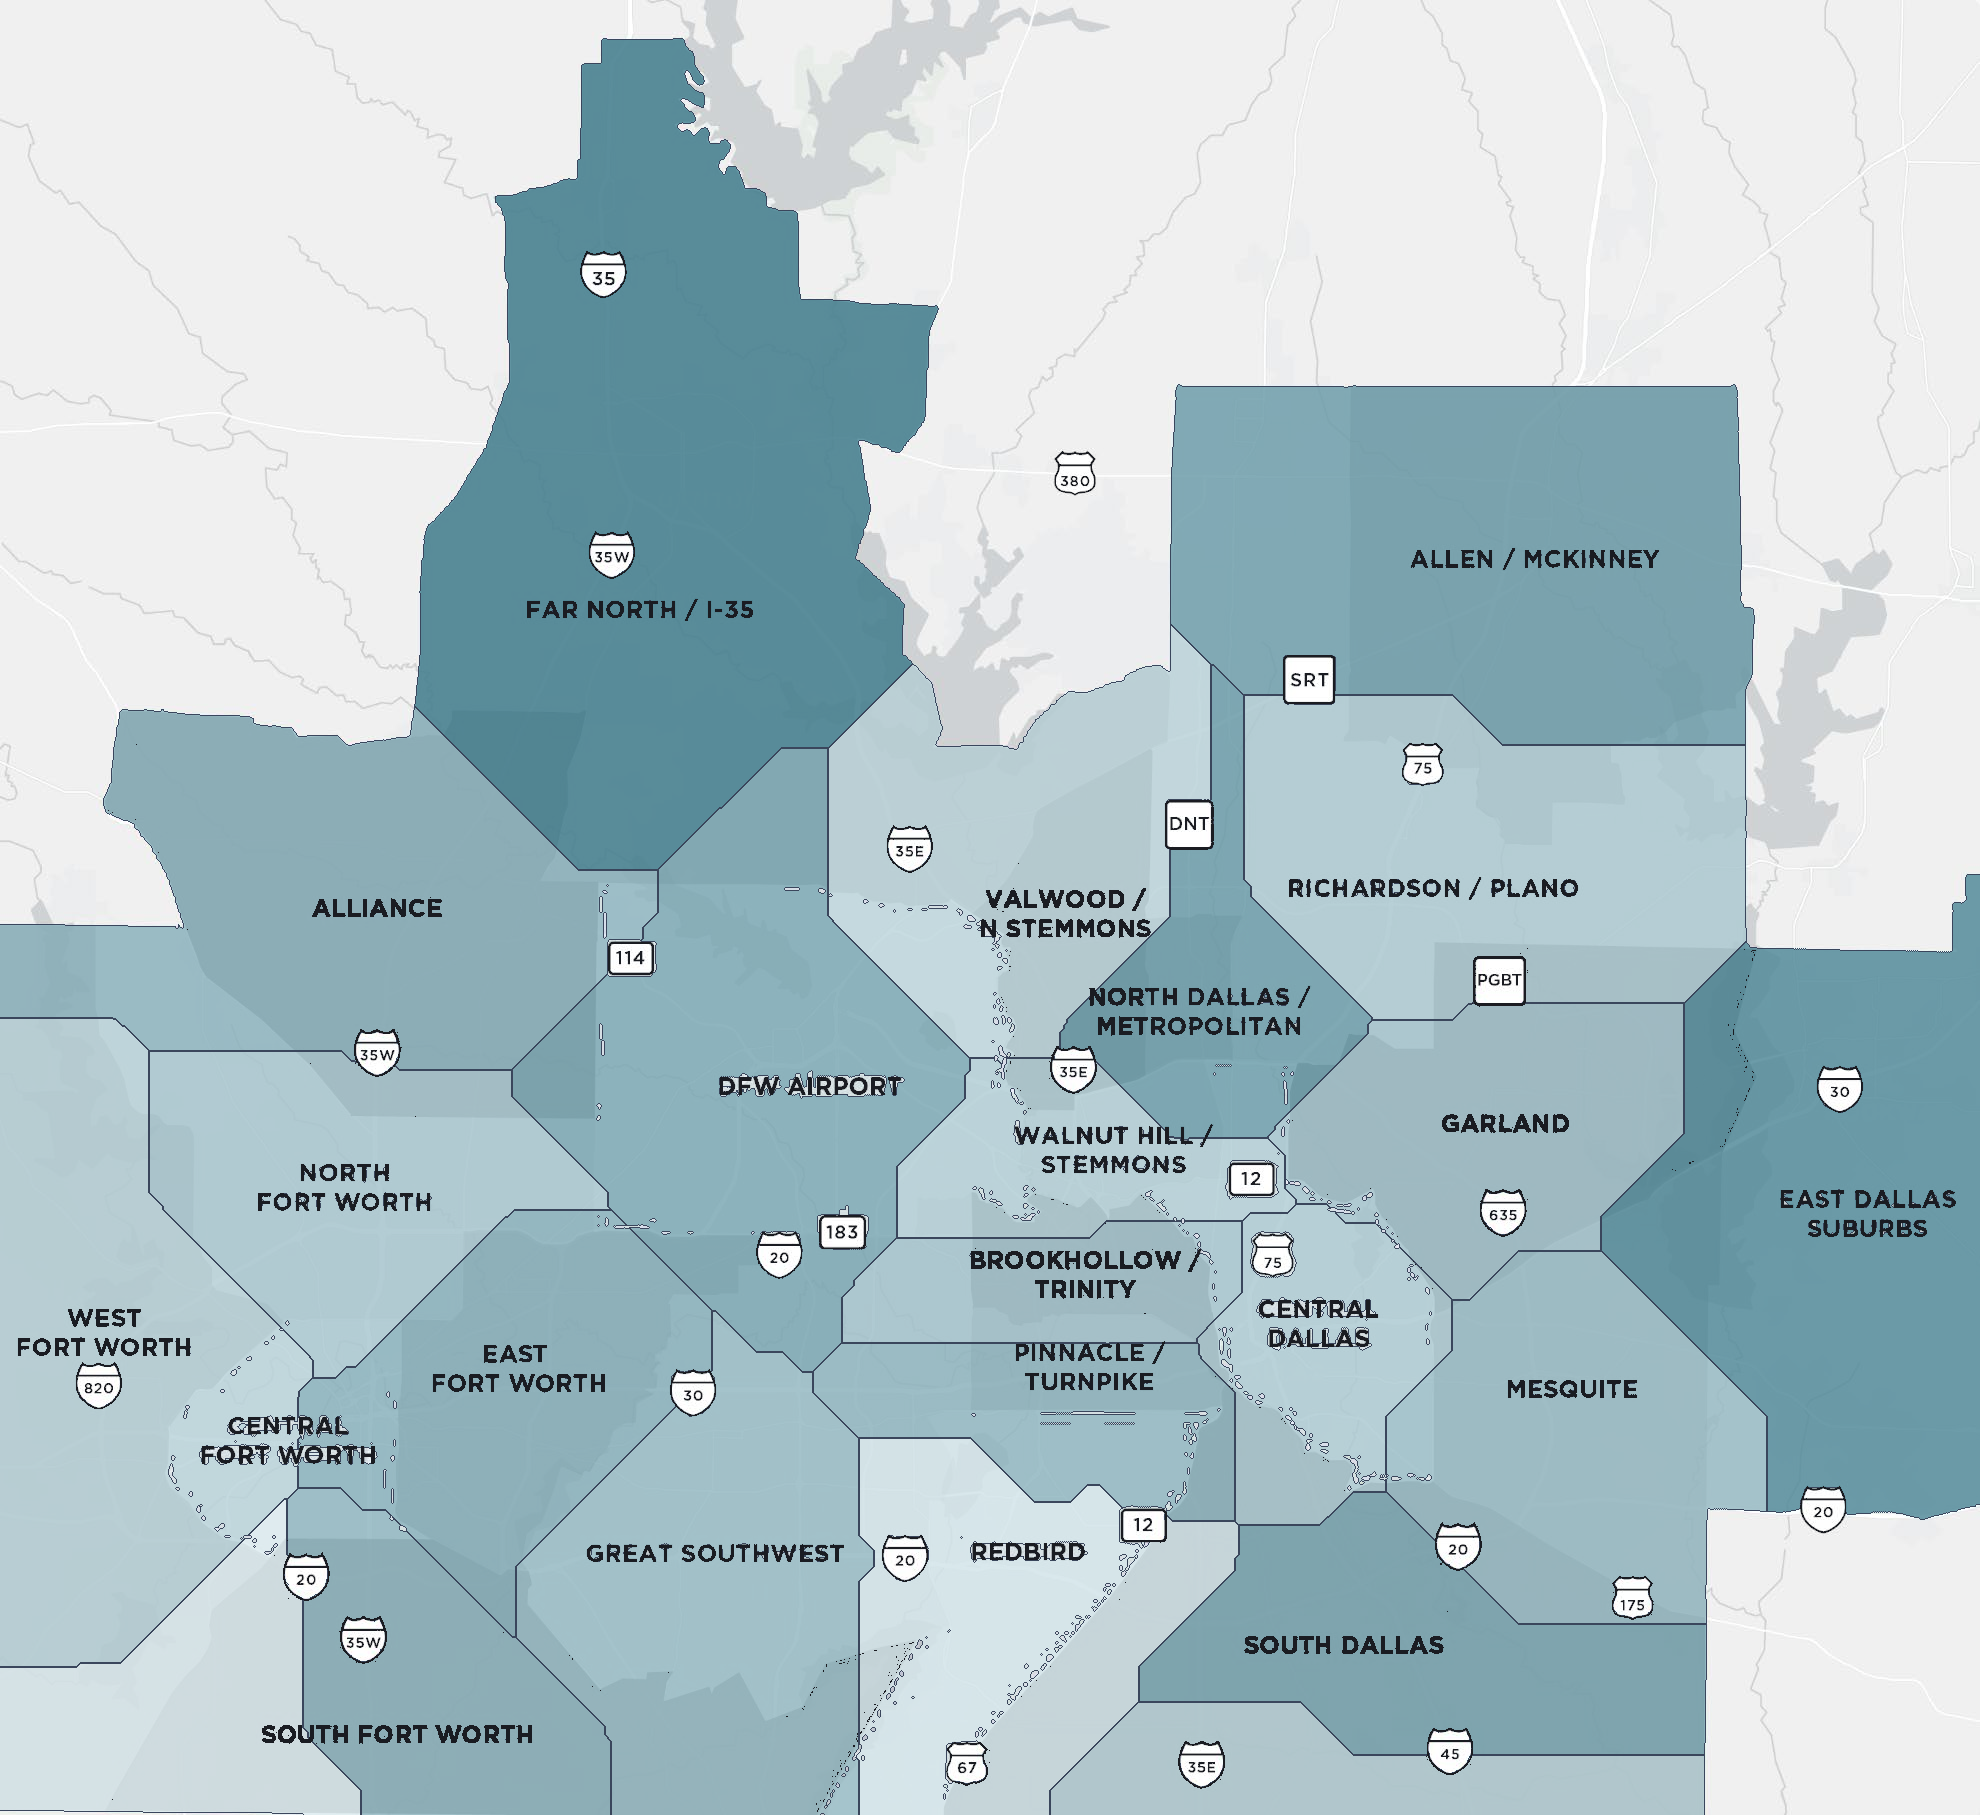
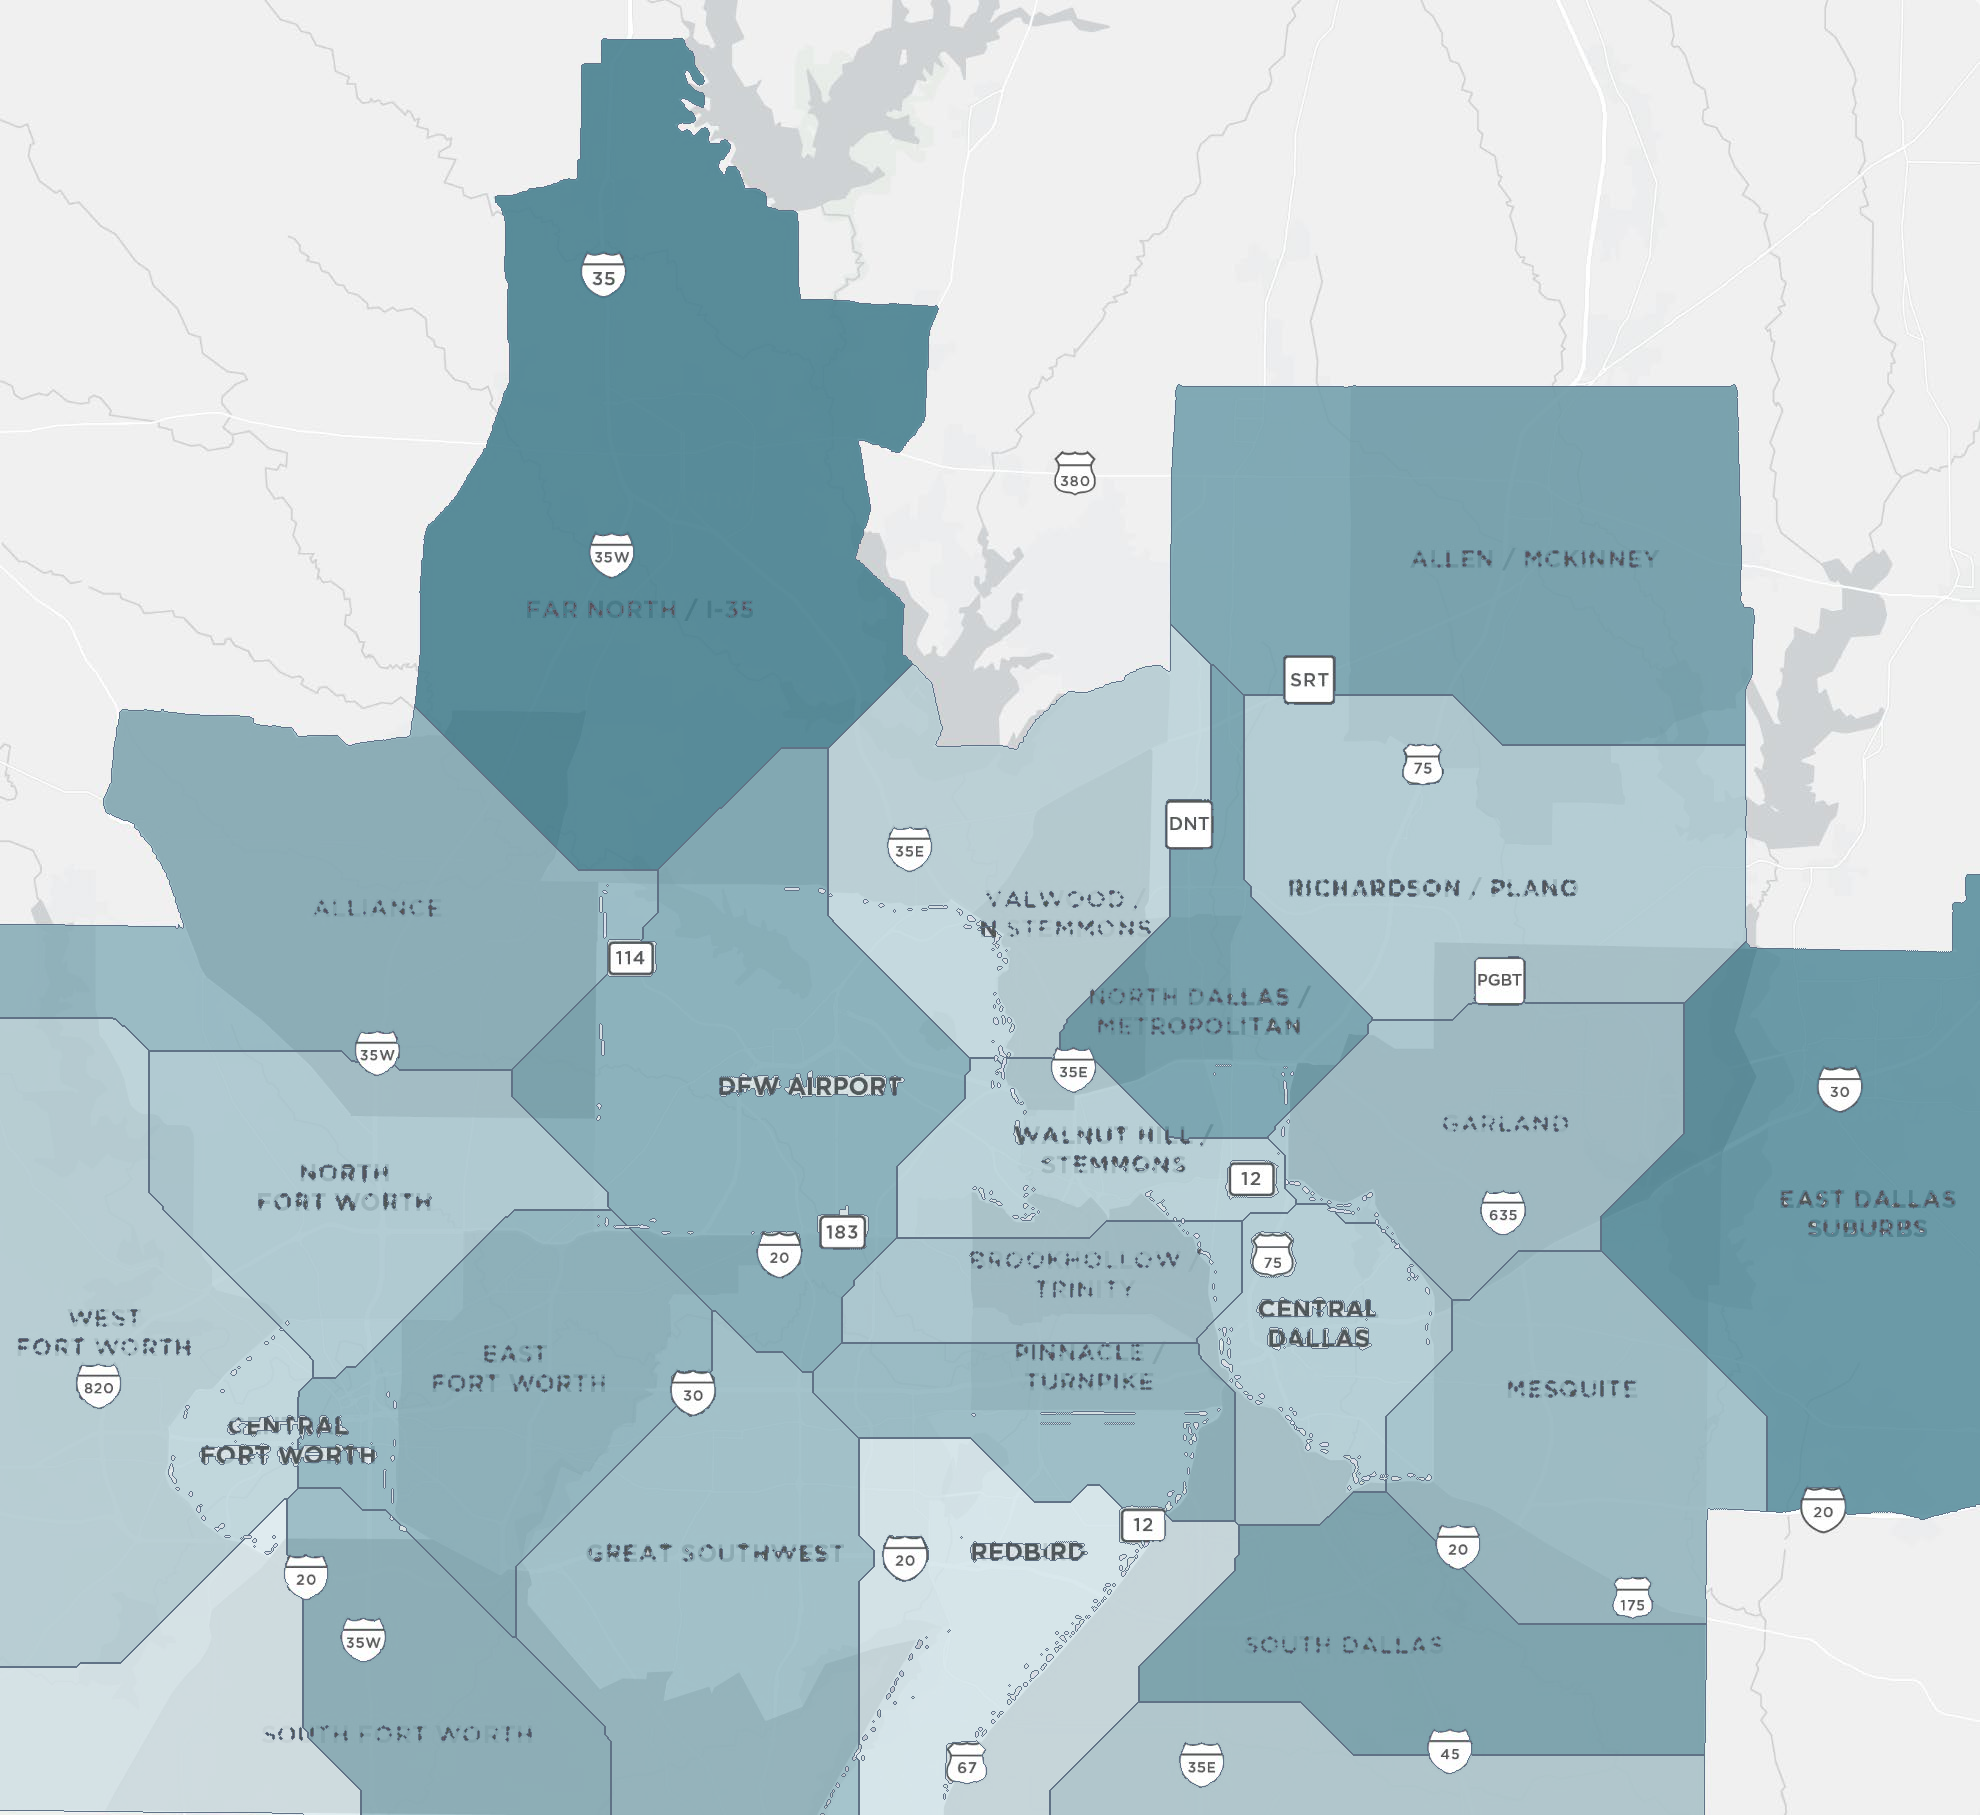
Submarket map: click-to-dive-deeper + clean labels
- Click any region on the map to open its full (transposed) stats in the side panel —
  no more crossing other regions to reach a button. Cursor hint follows the mouse.
- Labels: keep the original dark-text + white-halo rendering (removed the force-black
  overlay that read as 'black over white lettering'); softer region outlines.

diff --git a/frontend/report.html b/frontend/report.html
@@ -362,8 +362,13 @@
   .sm-split { display: flex; gap: 16px; align-items: stretch; }
   .sm-map { position: relative; flex: 0 0 79%; max-width: 79%; align-self: flex-start;
     border: 1px solid var(--line); border-radius: 12px; overflow: hidden; background: #fff;
-    box-shadow: 0 2px 10px rgba(20,30,50,.05); cursor: crosshair; }
+    box-shadow: 0 2px 10px rgba(20,30,50,.05); cursor: pointer; }
   .sm-img { display: block; width: 100%; height: auto; }
+  /* small hint that follows the cursor so you can dive deeper right where you are */
+  .sm-cursor { position: absolute; display: none; z-index: 6; pointer-events: none;
+    background: var(--navy); color: #fff; font-size: 11px; font-weight: 600; letter-spacing: .2px;
+    padding: 5px 9px; border-radius: 7px; white-space: nowrap; box-shadow: 0 4px 14px rgba(0,0,0,.35); }
+  .sm-cursor b { color: var(--teal); }
   /* the 20% side panel */
   .sm-side { flex: 1 1 0; min-width: 0; border: 1px solid var(--line); border-top: 3px solid var(--teal);
     border-radius: 12px; background: #fff; padding: 14px 15px; display: flex; flex-direction: column; }
@@ -378,9 +383,9 @@
   .ss-keys { font-size: 12px; color: #44515a; }
   .ss-keys div { display: flex; justify-content: space-between; gap: 10px; padding: 4px 0; border-bottom: 1px solid #f3f5f7; }
   .ss-keys b { color: #28323e; font-weight: 700; font-variant-numeric: tabular-nums; }
-  .ss-deeper { margin-top: 14px; border: 0; background: var(--teal); color: #fff; font-weight: 700;
-    font-size: 12px; padding: 10px 12px; border-radius: 8px; cursor: pointer; width: 100%; }
-  .ss-deeper:hover { filter: brightness(1.07); }
+  .ss-clickhint { margin-top: 14px; font-size: 11.5px; color: var(--muted); line-height: 1.5;
+    background: var(--mist); border-radius: 8px; padding: 9px 11px; }
+  .ss-clickhint b { color: var(--teal-d); }
   .ss-back { border: 0; background: none; color: var(--teal-d); font-weight: 700; font-size: 11.5px;
     cursor: pointer; padding: 0 0 8px; text-align: left; }
   .ss-table { width: 100%; border-collapse: collapse; }
@@ -534,6 +539,7 @@
       <div class="sm-split">
         <div id="sm-map" class="sm-map">
           <img id="sm-img" class="sm-img" alt="Submarket vacancy map">
+          <div id="sm-cursor" class="sm-cursor"></div>
         </div>
         <aside id="sm-side" class="sm-side"></aside>
       </div>
@@ -1037,7 +1043,10 @@
     if(!_smGrid){ const k=_smKey; fetch(`/assets/submap_${k}_regions.json`).then(r=>r.json())
         .then(g=>{ _smGridCache[k]=g; if(_smKey===k) _smGrid=g; }).catch(()=>{}); }
     const map=document.getElementById("sm-map");
-    if(map && !_smHandlersOn){ _smHandlersOn=true; map.addEventListener("mousemove", smHover); }
+    if(map && !_smHandlersOn){ _smHandlersOn=true;
+      map.addEventListener("mousemove", smHover);
+      map.addEventListener("click", smClick);
+      map.addEventListener("mouseleave", ()=>{ const c=document.getElementById("sm-cursor"); if(c) c.style.display="none"; }); }
     smSideDefault();
     document.getElementById("sm-foot").textContent =
       "The Cushman & Wakefield MarketBeat submarket map, shaded by Q1 2026 vacancy. Hover a submarket, then dive deeper for its full Market-Statistics figures.";
@@ -1060,16 +1069,26 @@
     return best?_smByName[best]:null;
   }
   function smHover(e){
-    const s=_smRegionAt(e);
-    if(s && (!_smCur || _smCur.name!==s.name)){ _smCur=s; smSideHover(s); }
+    const s=_smRegionAt(e), cur=document.getElementById("sm-cursor"), map=document.getElementById("sm-map");
+    if(!s){ if(cur) cur.style.display="none"; return; }
+    if(!_smCur || _smCur.name!==s.name){ _smCur=s; smSideHover(s); }   // side panel follows the hover
+    if(cur && map){                                                     // hint chip follows the cursor
+      cur.innerHTML = `${s.name} · <b>click for full stats</b>`;
+      const mr=map.getBoundingClientRect();
+      let x=e.clientX-mr.left+16, y=e.clientY-mr.top+18;
+      if(x+cur.offsetWidth+10>mr.width) x=e.clientX-mr.left-cur.offsetWidth-14;
+      cur.style.left=Math.max(4,x)+"px"; cur.style.top=Math.max(4,y)+"px"; cur.style.display="block";
+    }
   }
+  // click anywhere on a submarket -> dive deeper right there (no need to travel to a button)
+  function smClick(e){ const s=_smRegionAt(e); if(s){ _smCur=s; smDeep(); } }
 
   function smSideDefault(){
     const el=document.getElementById("sm-side"); if(!el) return;
     el.innerHTML =
       `<div class="ss-cap">VACANCY</div><div class="ss-bar"></div>
        <div class="ss-ends"><span>${_smVmin.toFixed(1)}% low</span><span>high ${_smVmax.toFixed(1)}%</span></div>
-       <div class="ss-hint">Hover a submarket on the map to see its vacancy and key stats — then <b>dive deeper</b> for the full figures.</div>`;
+       <div class="ss-hint">Hover a submarket to see its key stats; <b>click it</b> for the full figures.</div>`;
   }
   function smSideHover(s){
     const el=document.getElementById("sm-side"); if(!el) return;
@@ -1081,7 +1100,7 @@
          <div><span>Under construction</span><b>${_smSF(s.under_construction_sf)}</b></div>
          <div><span>${_smRentLabels.primary}</span><b>${_smRent(s.rent_primary)}</b></div>
        </div>
-       <button class="ss-deeper" onclick="smDeep()">Dive deeper →</button>`;
+       <div class="ss-clickhint">↗ <b>Click the area</b> on the map for its full figures</div>`;
   }
   function _smRows(s){
     return [["Inventory", _smSF(s.inventory_sf)], ["Vacant", _smSF(s.vacant_sf)],

diff --git a/scripts/build_submarket_map.py b/scripts/build_submarket_map.py
@@ -194,19 +194,16 @@ def build(sector: str) -> None:
     lg = light_grey[ys, xs][:, None]
     out_arr[ys, xs] = lg * (1 - BLEND) + cols[lab[ys, xs]] * BLEND   # tint each pixel by its region
 
-    # DISTINCT area outlines: a dark line wherever the submarket id changes (region-vs-region
-    # or region-vs-road), so each area is clearly delineated.
-    base_lum = base.mean(axis=2)
+    # Soft area outlines: a subtle line wherever the submarket id changes, so each area is
+    # delineated without being harsh. (The baked-in labels keep their original dark-text +
+    # white-halo rendering — we deliberately do NOT paint over them, which is what made the
+    # text read as "black over white lettering".)
     diff = np.zeros((H, W), bool)
     diff[:, :-1] |= lab[:, :-1] != lab[:, 1:]
     diff[:, 1:] |= lab[:, :-1] != lab[:, 1:]
     diff[:-1, :] |= lab[:-1, :] != lab[1:, :]
     diff[1:, :] |= lab[:-1, :] != lab[1:, :]
-    out_arr[diff & (lab >= 0)] = (58, 70, 92)
-
-    # CRISP BLACK labels: the original dark text/linework -> near-black (the light tint was
-    # washing the baked-in labels out).
-    out_arr[base_lum < 122] = (26, 28, 34)
+    out_arr[diff & (lab >= 0)] = (96, 114, 134)
 
     img = Image.fromarray(out_arr.clip(0, 255).astype(np.uint8))
     idmap = lab
